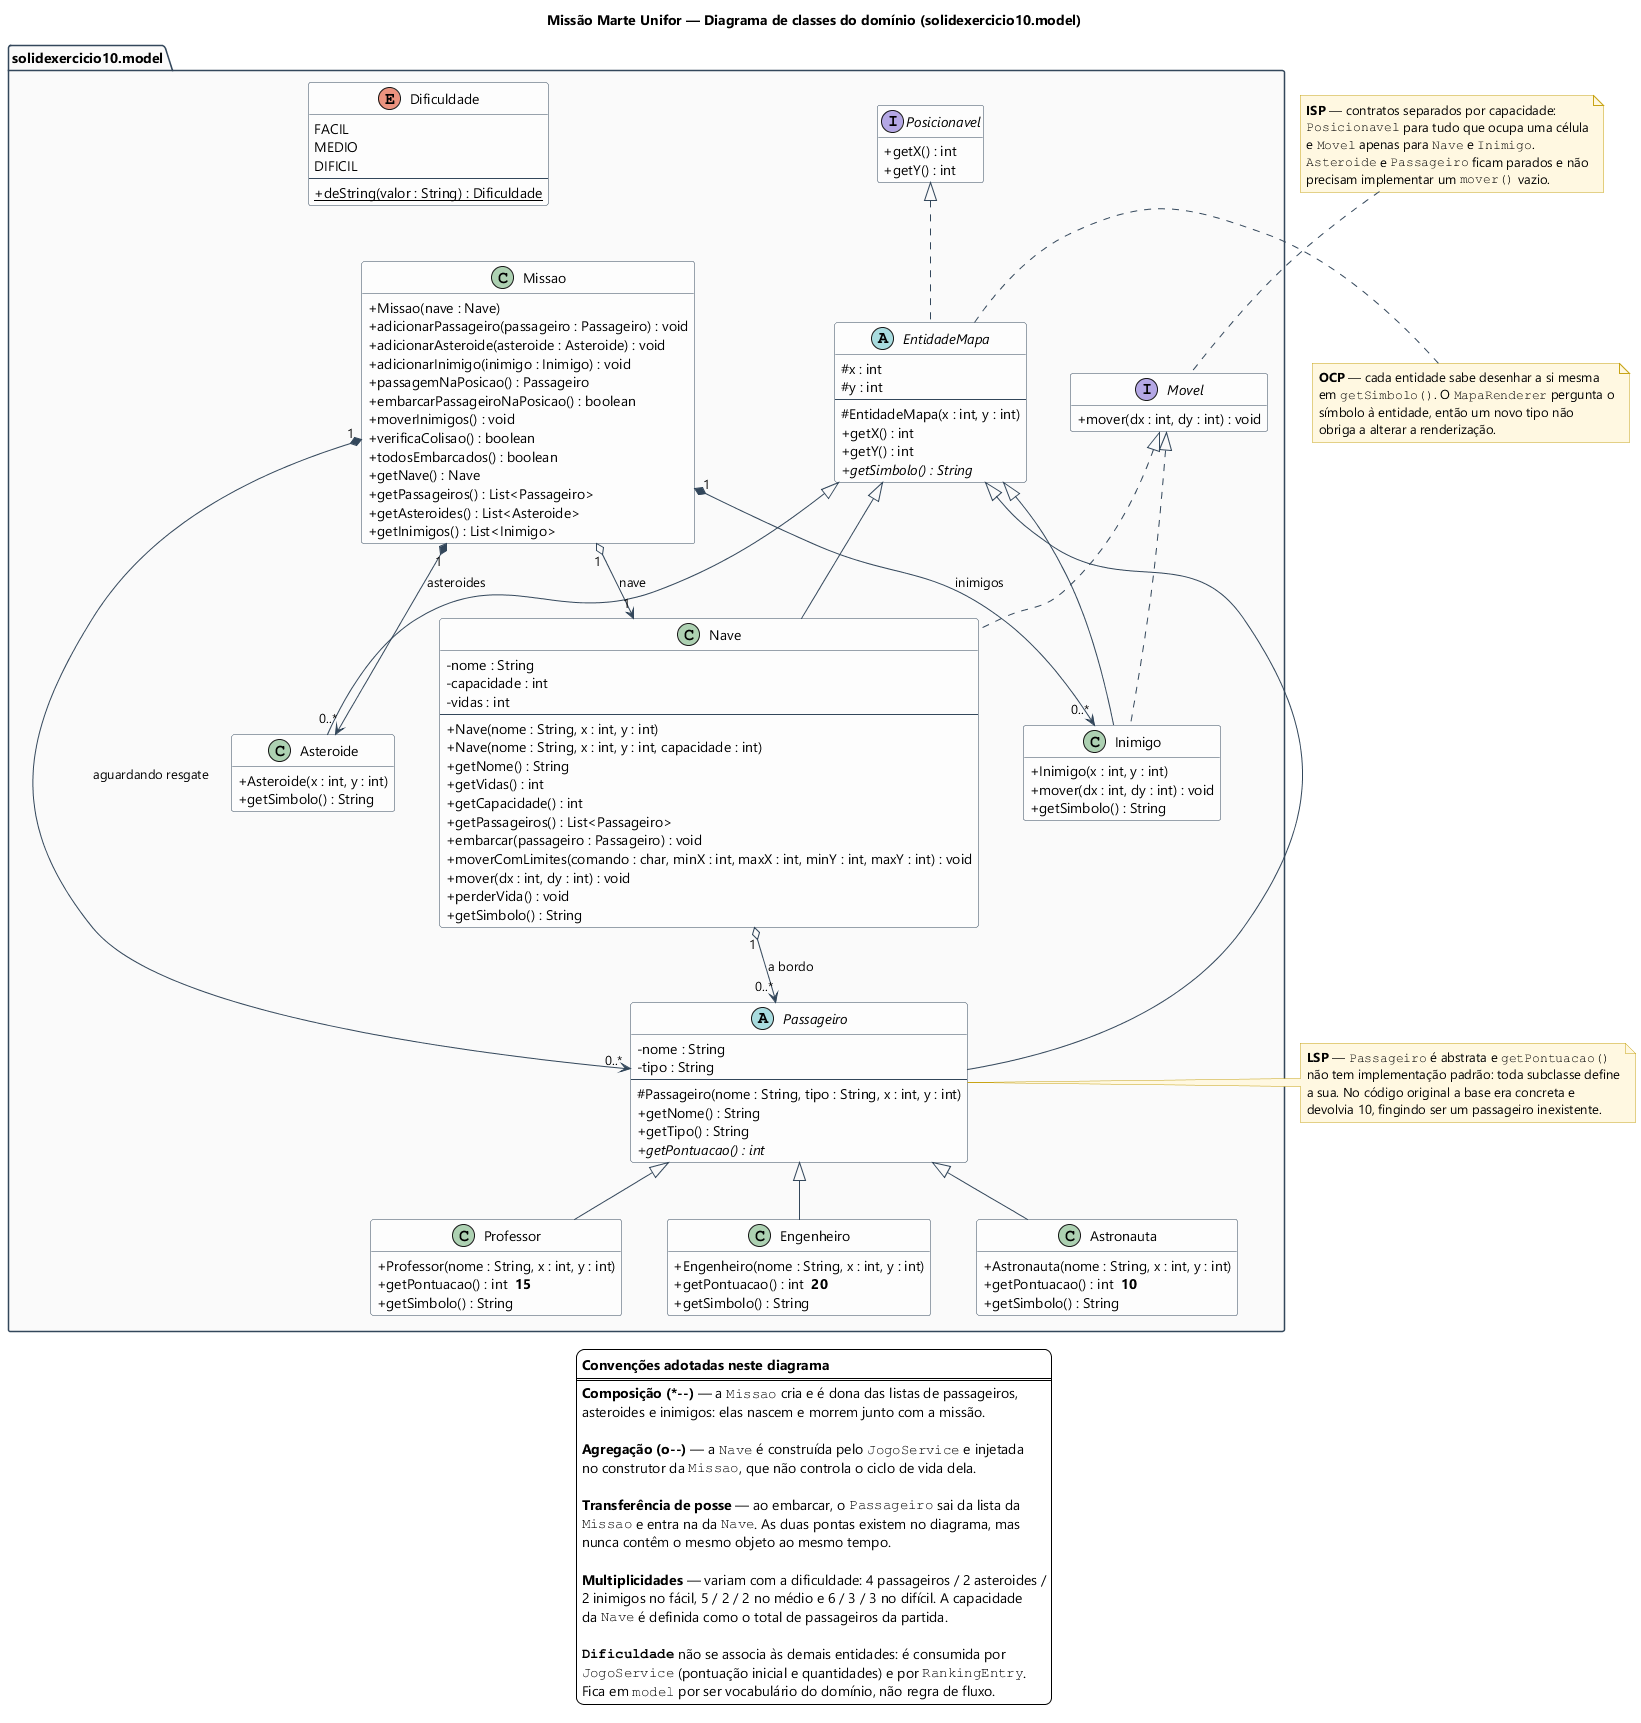
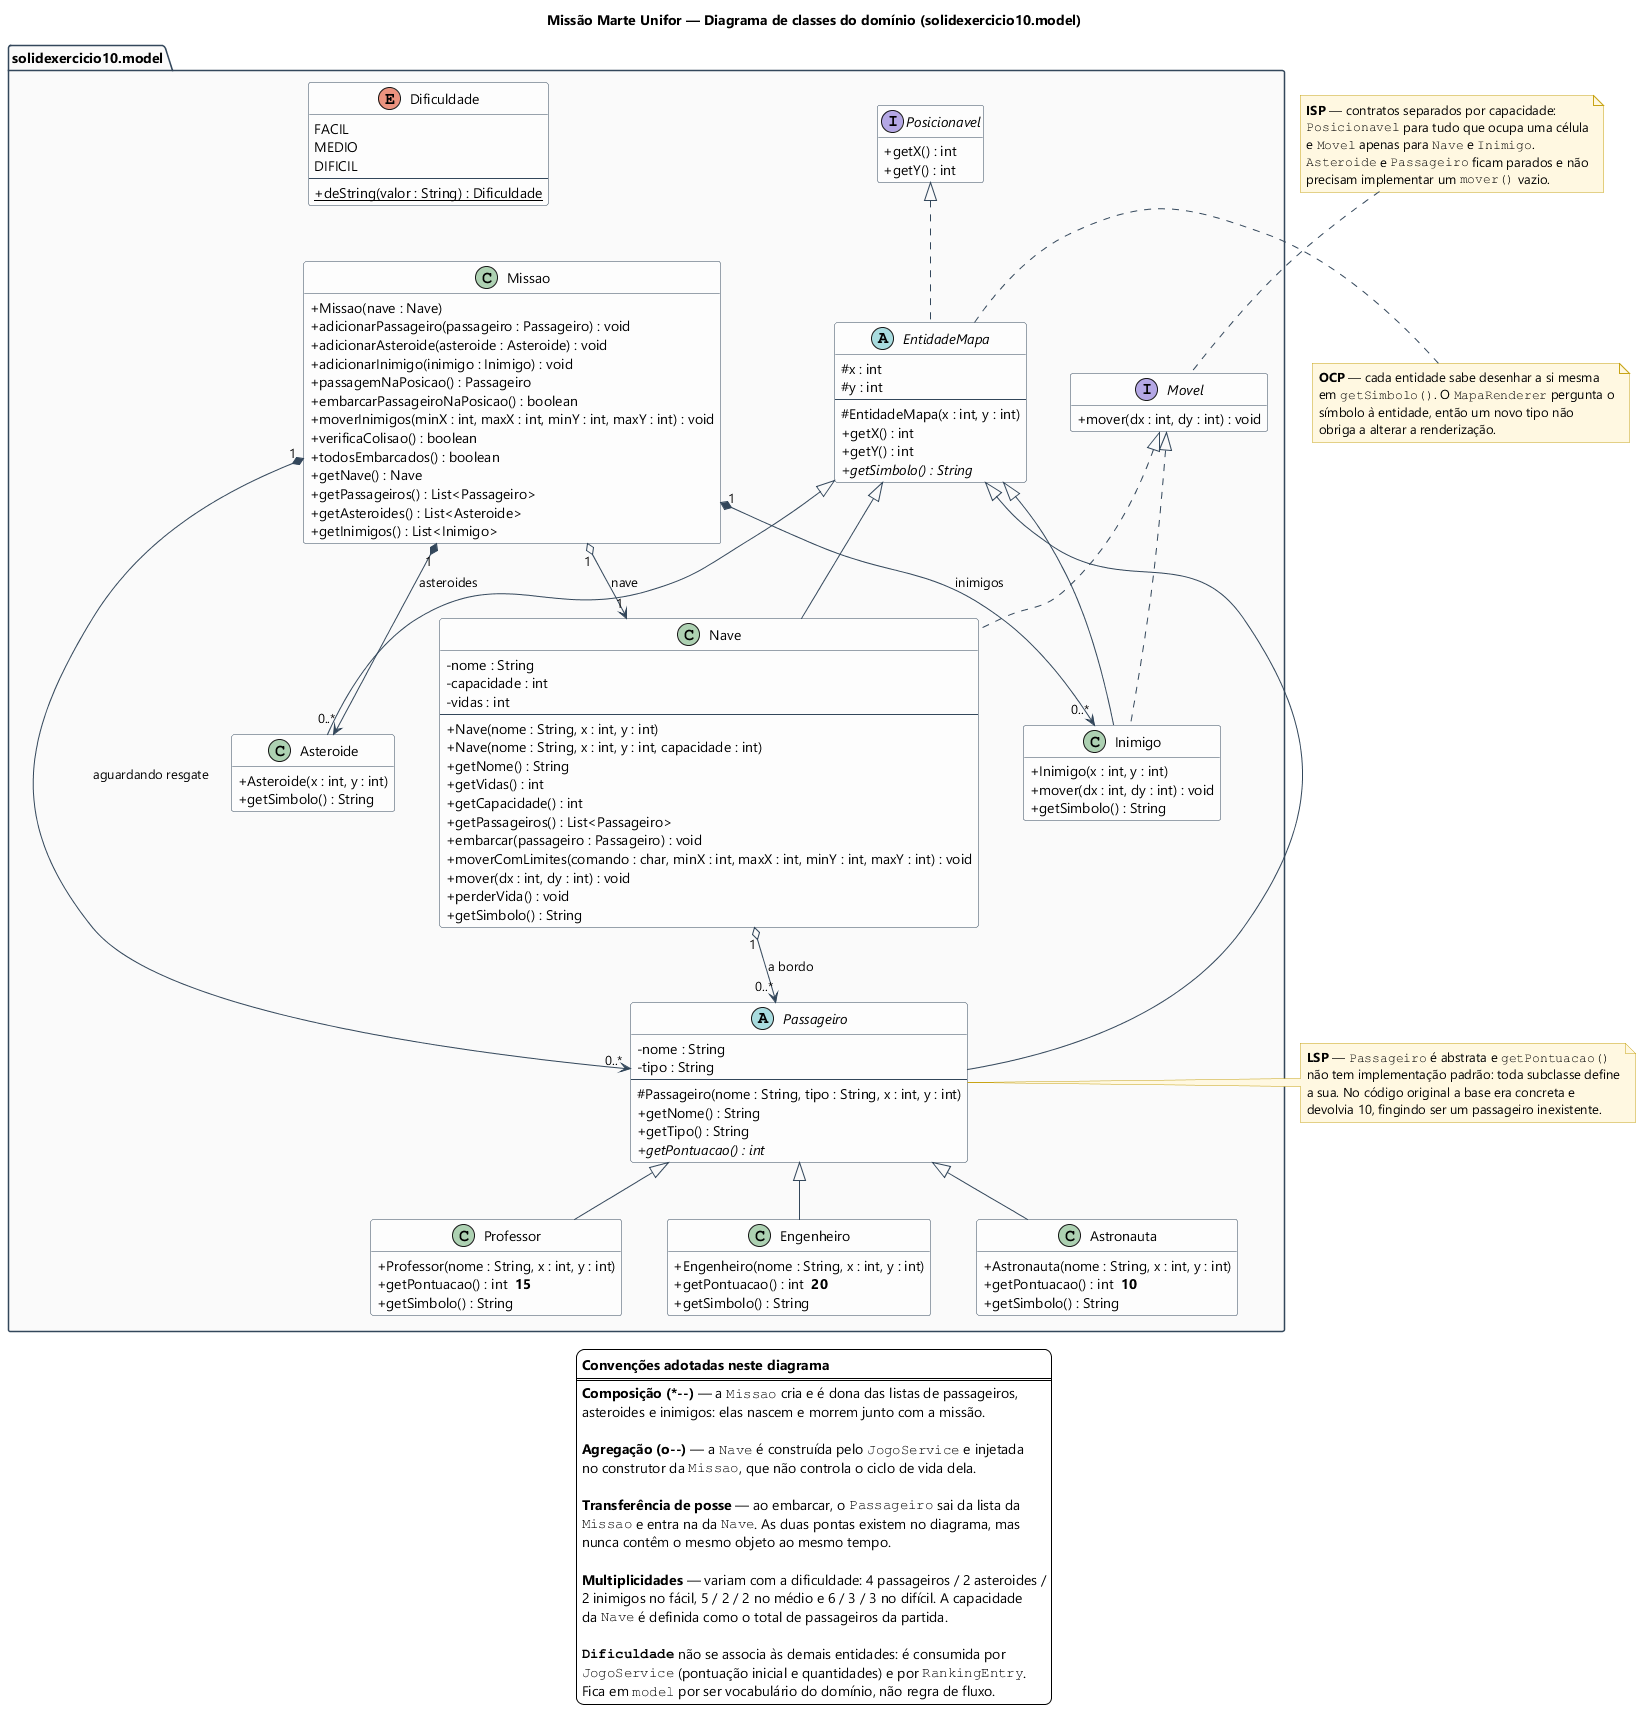
Registra a correcao dos inimigos na revisao critica e atualiza o UML
Documenta o teste de limites, a discordancia com o moverInimigos do
tutorial e sincroniza a assinatura no diagrama de classes.

Changed region(s): [[0.1865, 0.1538, 0.404, 0.3384], [0.3729, 0.3384, 0.404, 0.3691], [0.1865, 0.3999, 0.2176, 0.4306]]

diff --git a/REVISAO-SOLID.md b/REVISAO-SOLID.md
@@ -23,9 +23,21 @@ Registre os comandos executados e os fluxos testados:
 - [x] movimentação, embarque e conclusão da missão;
 - [x] consulta e reset do ranking;
 - [x] execução pelo `run.cmd start` e saída imediata;
-- [x] teste de mapa insuficiente na dificuldade difícil, corrigido com tamanho mínimo automático.
+- [x] teste de mapa insuficiente na dificuldade difícil, corrigido com tamanho mínimo automático;
+- [x] teste de limites dos inimigos: 20.000 rodadas com 3 inimigos em um mapa de -5 a 5, comparando a versão anterior e a corrigida. Antes: 59.912 posições fora do mapa e um inimigo a 159 casas da área jogável. Depois: 0 posições fora do mapa.
 
 ## Achados da revisão
+
+### Inimigos saindo dos limites do mapa (corrigido)
+
+```text
+Local: Missao.moverInimigos e JogoService (chamada do movimento)
+Princípio relacionado: preservação de comportamento na refatoração
+Observação: o método sorteava o deslocamento e chamava inimigo.mover(dx, dy) sem consultar os limites do mapa. O código original do exercicio10 recebia minX, maxX, minY e maxY e bloqueava o passo que ultrapassasse a borda.
+Impacto: os inimigos deixavam a área jogável nas primeiras rodadas e nunca retornavam, de modo que a missão perdia os perigos móveis e ficava mais fácil do que o previsto pela dificuldade escolhida.
+Proposta: devolver os limites à assinatura de moverInimigos e zerar o deslocamento que ultrapassaria a borda, mantendo o sorteio aleatório como estava.
+Prioridade: alta
+```
 
 ### Mapa pequeno e posições insuficientes
 
@@ -90,6 +102,21 @@ a persistência e criar testes com um repositório em memória.
 
 ## Decisões com as quais não concordo
 
+A principal discordância é com o `moverInimigos()` proposto pelo tutorial em
+`src/README.md`. A versão do tutorial sorteia o deslocamento e chama
+`inimigo.mover(dx, dy)` sem consultar os limites do mapa, enquanto o código
+original do `exercicio10` recebia `minX`, `maxX`, `minY` e `maxY` e bloqueava o
+passo que ultrapassasse a borda. Seguir o tutorial removeu essa proteção, e a
+consequência é mensurável: no teste de 20.000 rodadas registrado acima, a
+versão do tutorial acumulou 59.912 posições fora do mapa e levou um inimigo a
+159 casas da área jogável. Como os inimigos nunca retornam, a partida perde os
+perigos móveis logo no início.
+
+O ponto não é de estilo, e sim de objetivo da atividade: a refatoração deve
+preservar o comportamento da aplicação, e neste trecho ela não preservou. A
+simplificação da assinatura deixou o método mais curto, mas transferiu para
+lugar nenhum uma regra que o domínio precisava manter.
+
 A geração aleatória da missão ainda fica dentro de `JogoService`. Para o
 projeto atual isso evita abstrações desnecessárias, mas eu a extrairia para uma
 `MissaoFactory` caso surgissem mais mapas, cenários ou regras de distribuição.
@@ -101,3 +128,11 @@ Foi implementada a validação do tamanho mínimo do mapa em
 1 terminava com `IllegalStateException` por falta de posições livres. Depois,
 o programa calcula o mínimo necessário por dificuldade, informa o ajuste e
 continua a execução normalmente.
+
+Também foi corrigido o escape dos inimigos. `Missao.moverInimigos` passou a
+receber os limites do mapa e a zerar o deslocamento que ultrapassaria a borda;
+o sorteio aleatório permanece o mesmo. Depois da correção, o mesmo teste de
+20.000 rodadas registrou zero posições fora do mapa. Os limites ficaram na
+`Missao`, e não dentro de `Inimigo.mover`, para que `Movel.mover(dx, dy)`
+continue sendo um deslocamento relativo puro: quem conhece o tabuleiro é a
+missão, não a entidade que se desloca.
